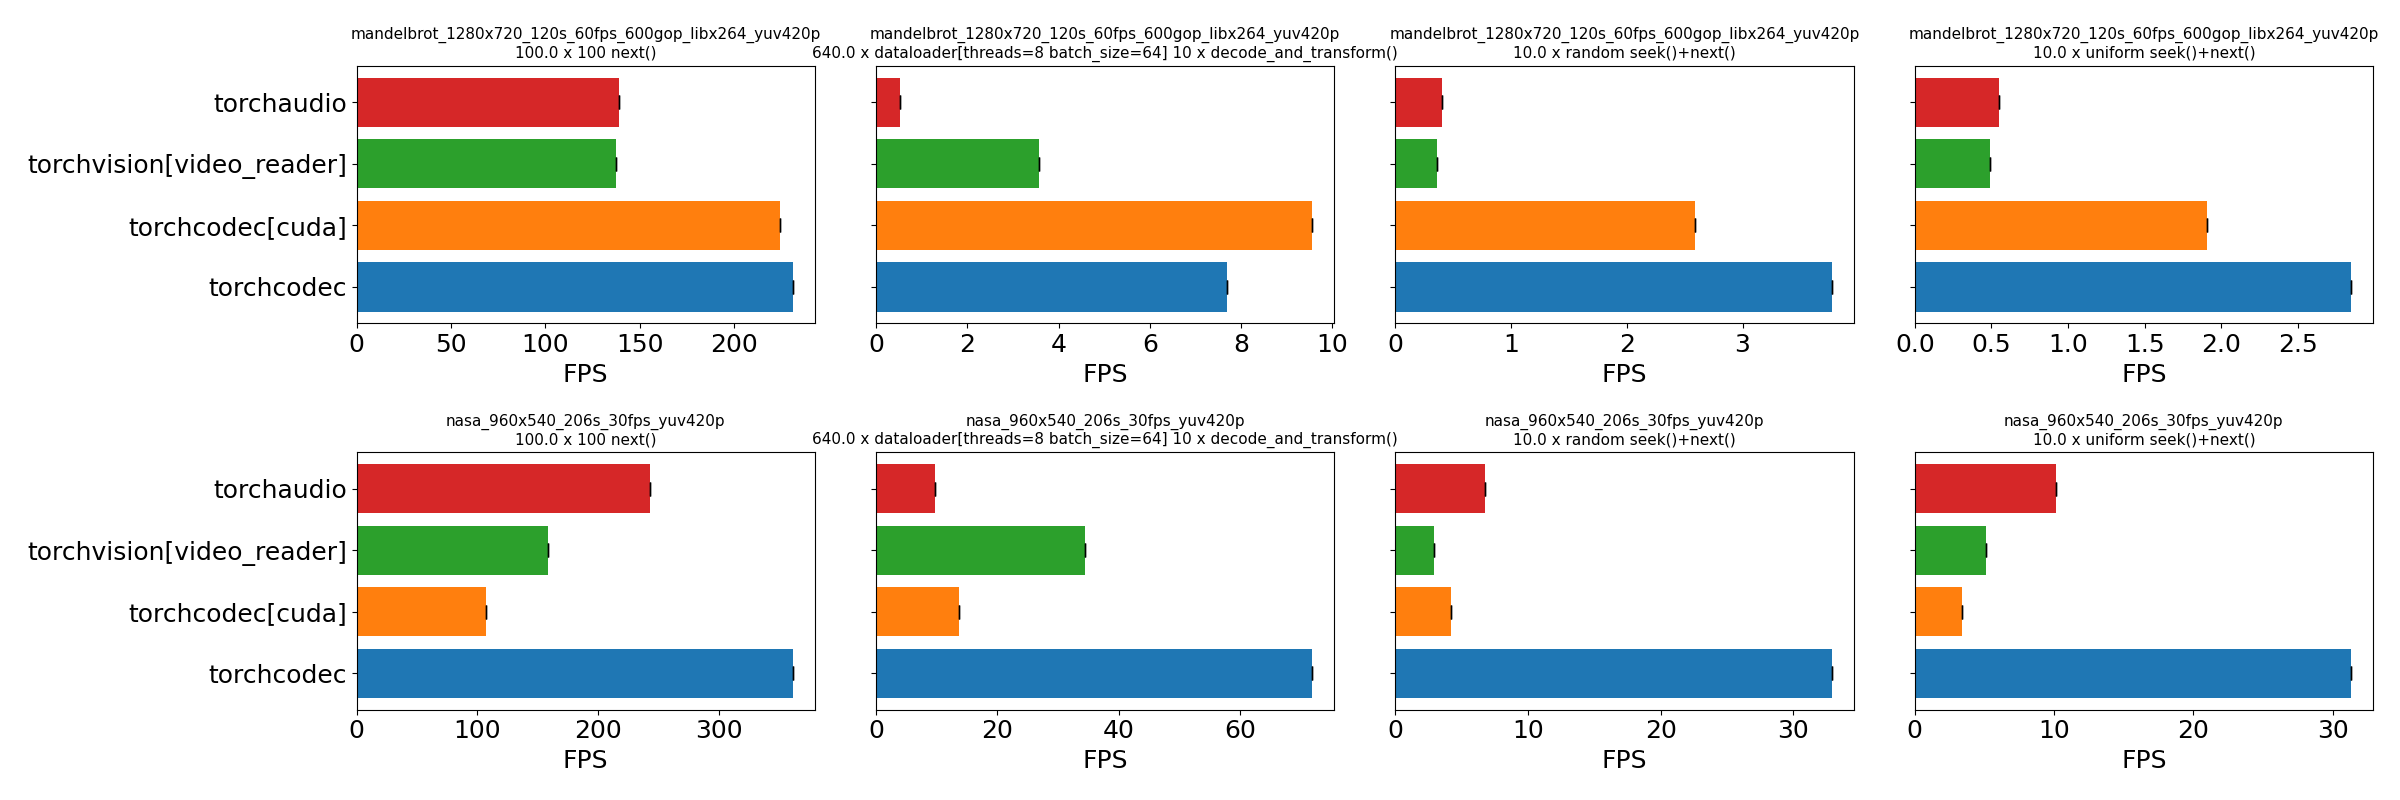
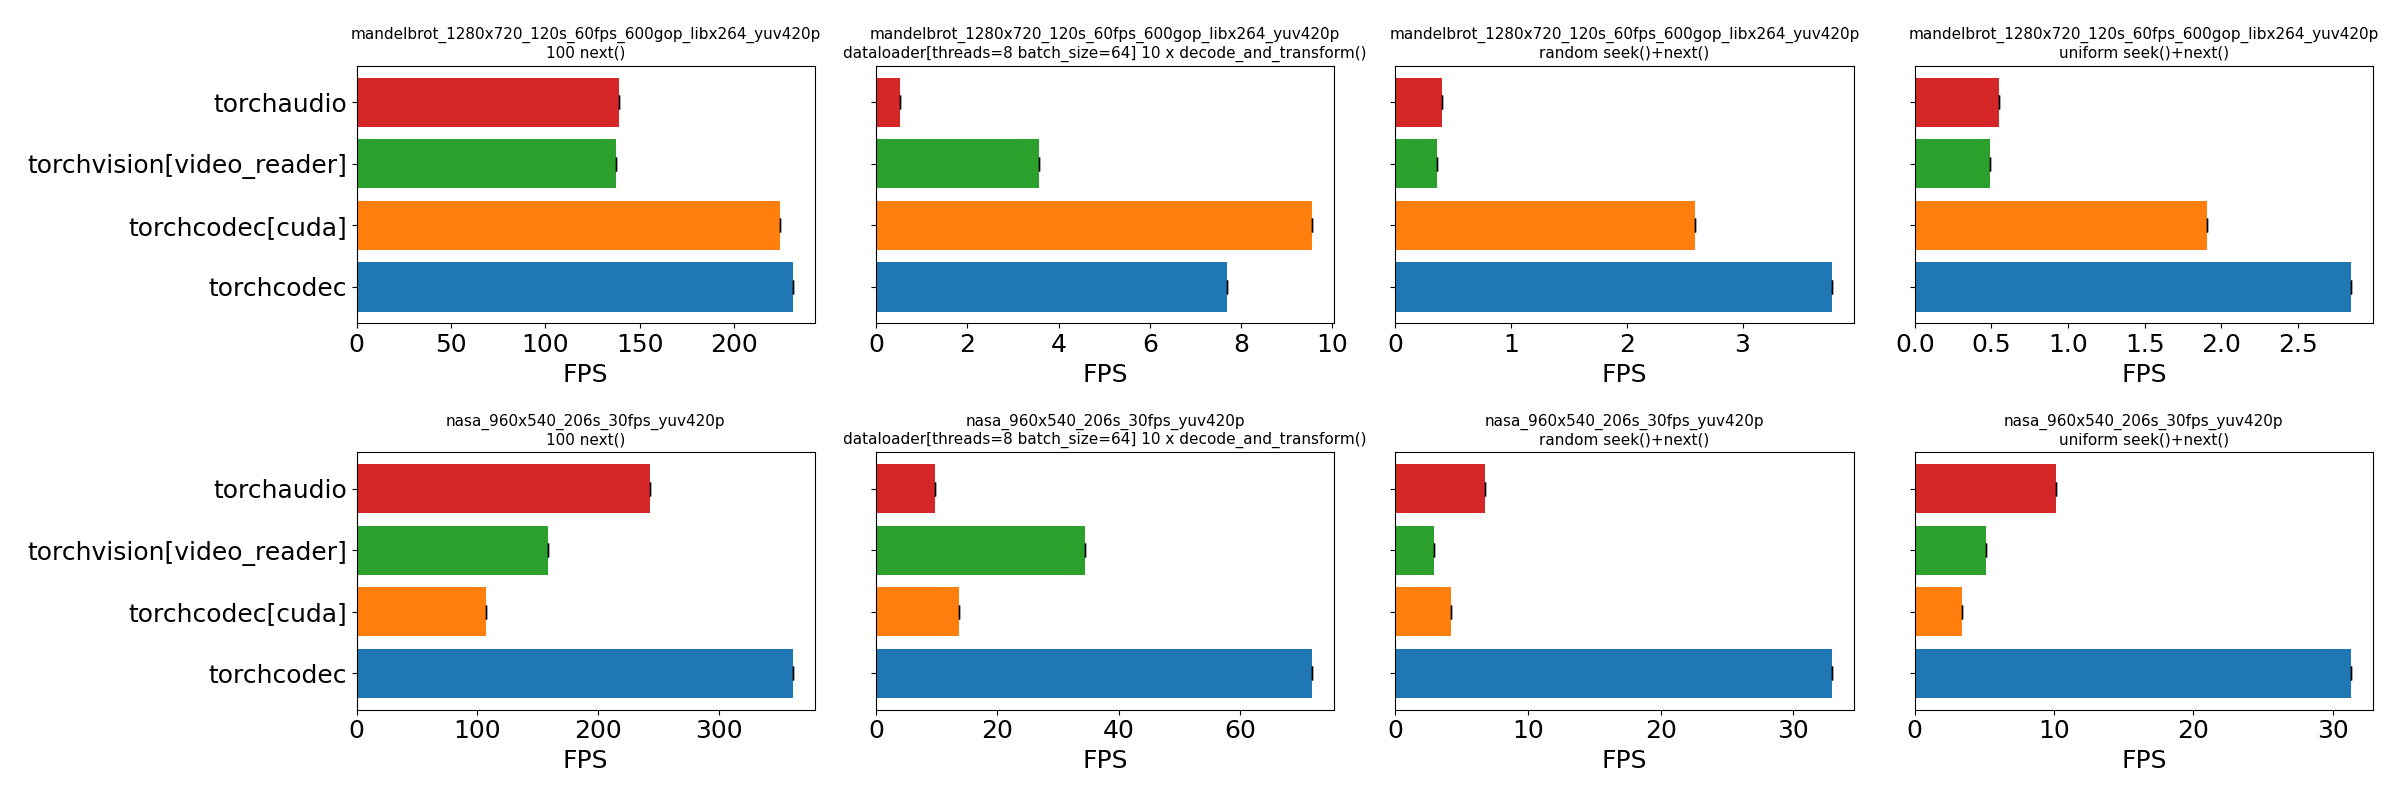
.

diff --git a/benchmarks/decoders/benchmark_decoders_library.py b/benchmarks/decoders/benchmark_decoders_library.py
@@ -496,7 +496,7 @@ def plot_data(df_data, plot_path):
 
             # Set the title for the subplot
             base_video = Path(video).name.removesuffix(".mp4")
-            ax.set_title(f"{base_video}\n{vcount} x {vtype}", fontsize=11)
+            ax.set_title(f"{base_video}\n{vtype}", fontsize=11)
 
             # Plot bars with error bars
             ax.barh(
